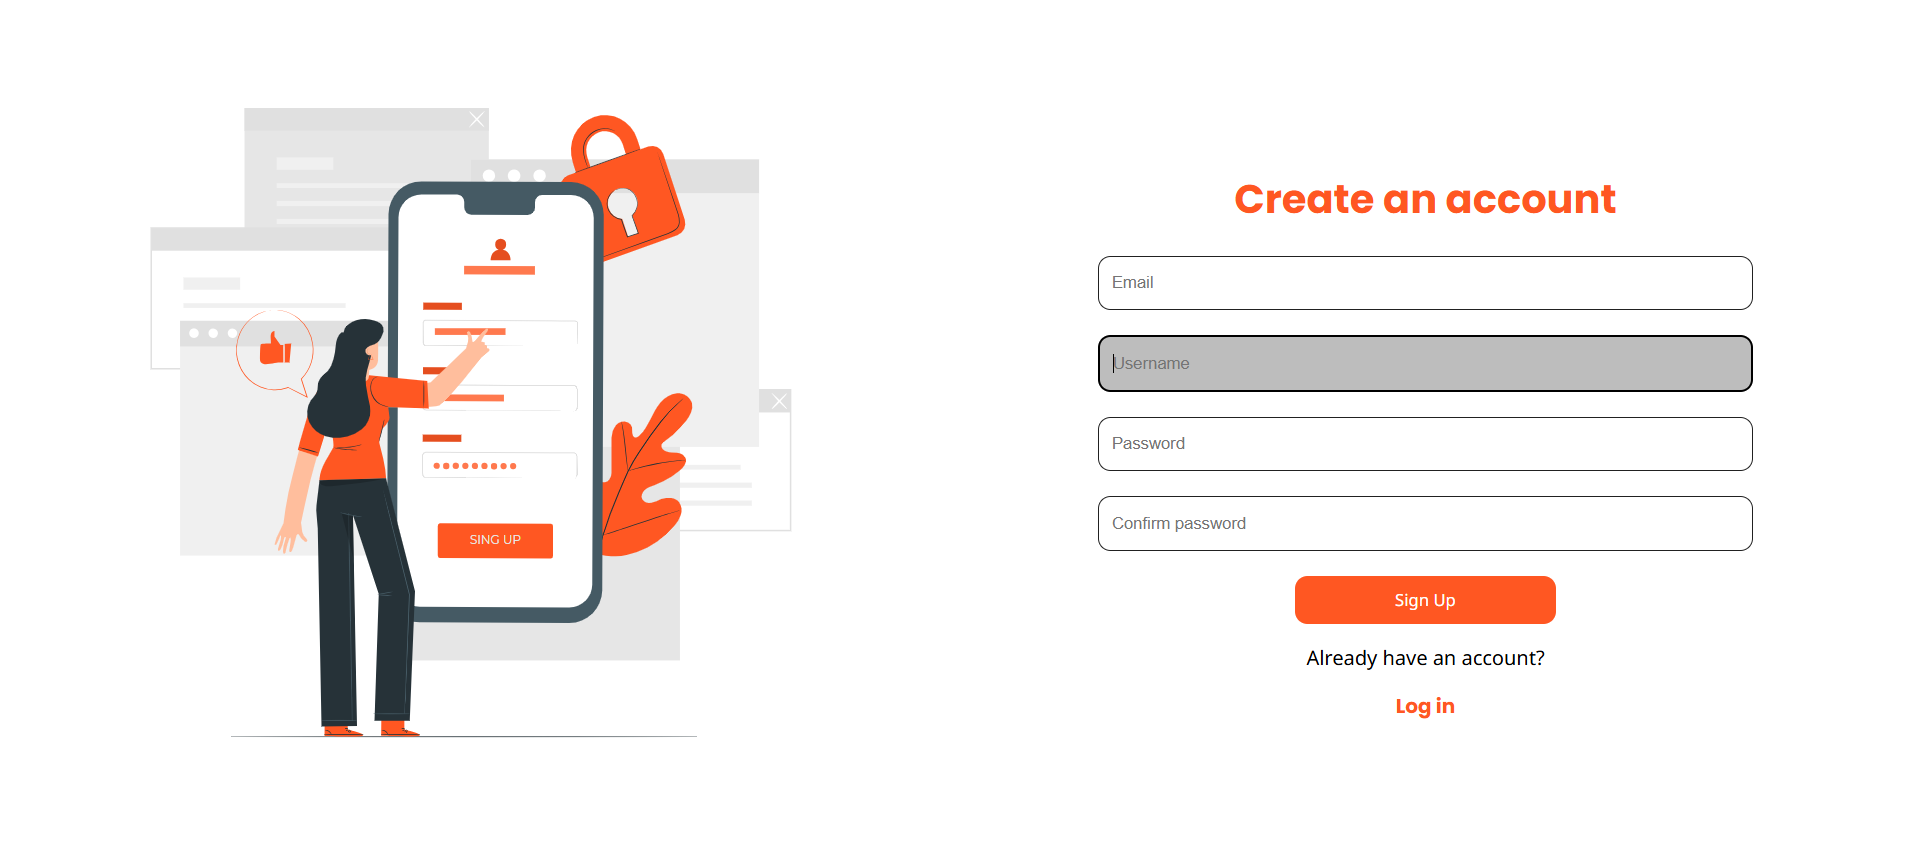
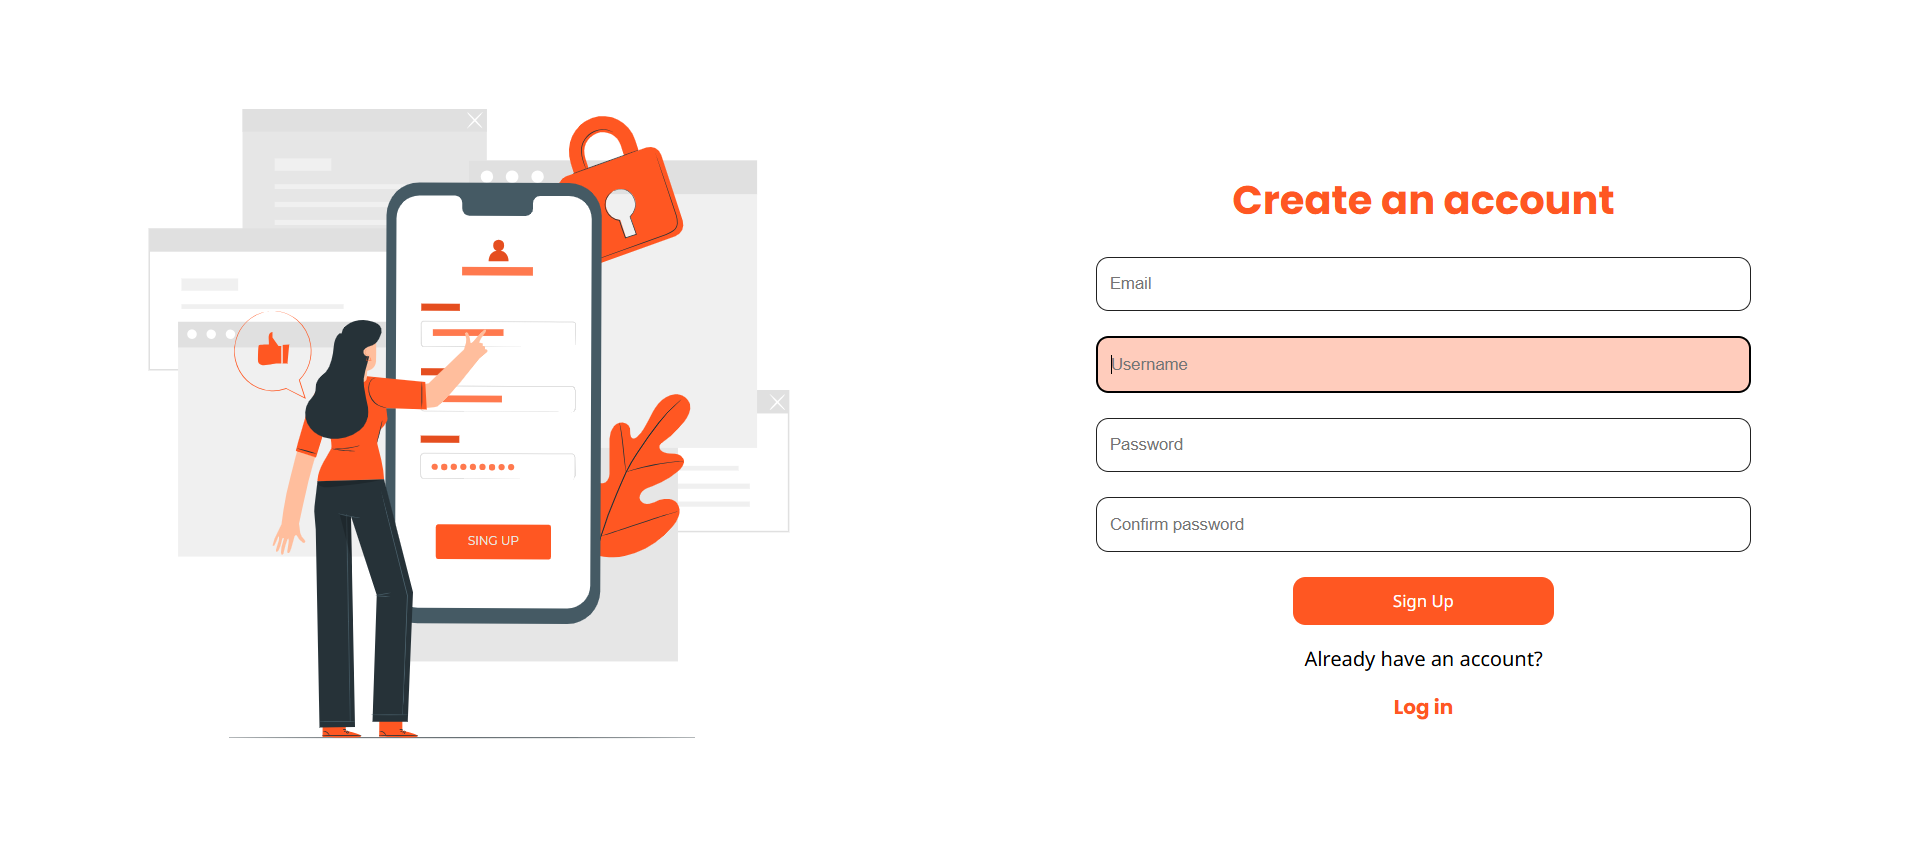
Dashboard design and styling
Designed the basic layout in Figma, used AI to get the basic layout in code and styled it to my own preferences

diff --git a/public/css/style2.css b/public/css/style2.css
@@ -13,79 +13,170 @@
     /*https://www.materialpalette.com*/
 }
 
-body {
-    overflow: hidden;
+* {
     margin: 0;
-    padding: 40px 60px 40px 60px;
-    font-family: "Noto Sans", sans-serif;
-    font-weight: 400;
-    background-color: var(--primary-bg);
+    padding: 0;
+    box-sizing: border-box;
 }
 
-/*Header*/
-header {
+body {
+    font-family: 'Poppins';
+    background-color: #f5f5f5;
+    color: #333;
+}
+
+.container {
+    display: flex;
+    min-height: 100vh;
+}
+
+.sidebar {
+    width: 250px;
+    background-color: #fff;
+    box-shadow: 2px 0 10px rgba(0,0,0,0.1);
+    padding: 20px 0;
+    display: flex;
+    flex-direction: column;
+    justify-content: space-between;
+}
+
+.upper h1 {
+    font-size: 24px;
+    color: #333;
+    margin-bottom: 30px;
+    padding: 0 20px;
+}
+
+.nav-item {
+    display: block;
+    padding: 15px 20px;
+    color: #666;
+    text-decoration: none;
+    border: none;
+    background: none;
     width: 100%;
-    height: 20%;
+    text-align: left;
+    font-size: 16px;
+    cursor: pointer;
+    transition: all 0.2s ease;
+}
+
+.nav-item:hover {
+    background-color: #f0f0f0;
+    color: #333;
+}
+
+.nav-item.active {
+    background-color: var(--light-primary);
+    color: var(--dark-primary);
+    border-right: 3px solid var(--primary);
+}
+
+#logout-btn {
+    background-color: var(--primary);
+}
+
+#logout-btn a {
+    text-decoration: none;
+    color: #FFFFFF;
+}
+
+        /* Main Content */
+.main-content {
+    flex: 1;
+    padding: 20px;
+}
+
+.header {
+    background: linear-gradient(99deg,rgba(255, 87, 34, 1) 42%, rgba(255, 193, 7, 1) 100%);
+    color: white;
+    padding: 30px;
+    border-radius: 12px;
+    margin-bottom: 30px;
+    box-shadow: 0 4px 15px rgba(0,0,0,0.1);
+}
+
+.header h2 {
+    font-size: 28px;
+    margin-bottom: 10px;
+}
+
+.header p {
+    font-size: 16px;
+    opacity: 0.9;
+}
+
+#username {
+    font-weight: bold;
+}
+
+.today-section {
+    background-color: #fff;
+    padding: 20px;
+    border-radius: 12px;
+    margin-bottom: 20px;
+    box-shadow: 0 2px 10px rgba(0,0,0,0.08);
+    display: flex;
+    justify-content: space-between;
+    align-items: center;
+}
+
+.today-info {
+    display: flex;
+    align-items: center;
+    gap: 15px;
+}
+
+.date-text {
+    font-size: 18px;
+    color: #333;
+    font-weight: 500;
+}
+
+.add-entry-btn {
+    background-color: var(--primary);
+    color: white;
+    border: none;
+    padding: 12px 25px;
+    border-radius: 8px;
+    font-size: 16px;
+    cursor: pointer;
+    transition: all 0.3s ease;
+    display: flex;
+    align-items: center;
+    gap: 8px;
+}
+
+.add-entry-btn:hover {
+    cursor: pointer;
+    background-color: var(--dark-primary);
+}
+
+.content-grid {
+    display: grid;
+    grid-template-columns: 1fr 300px;
+    gap: 20px;
+}
+
+.recent-entries {
+    background-color: #fff;
+    border-radius: 12px;
+    padding: 25px;
+    box-shadow: 0 2px 10px rgba(0,0,0,0.08);
+}
+
+.recent-entries h3 {
+    font-size: 20px;
+    color: #333;
     margin-bottom: 20px;
 }
 
-.header-inner {
-    display: flex;
-    justify-content: space-between;
-    align-items: center;
-    gap: 20px;
-    font-size: 25px;
-    padding-right: 10px;
-}
-
-.header-inner a {
-    font-size: 20px;
-}
-
-.header-inner p {
-    margin: 0;
-}
-
-/*Body*/
-.upper-container {
-    height: 180px;
-    background-color: var(--primary);
-    border-radius: 15px;
-    display: flex;
-    align-items: center;
-    justify-content: space-between;
-    padding-left: 30px;
-    padding-right: 40px;
-    box-shadow: rgba(100, 100, 111, 0.2) 0px 7px 29px 0px;
-}
-
-.date-display {
-    display: flex;
-    flex-direction: column;
-    gap: 5px;
-}
-
-.date-display p {
-    margin: 0;
-    color: var(--primary-bg);
-    font-size: large;
-}
-
-#date {
-    font-weight: bold;
-    font-size:xx-large;
-}
-
-.new-button {
-    background-color: var(--accent);
-    padding: 40px;
-    border-radius: 50%;
-    height: 30px;
-    box-shadow: rgba(0, 0, 0, 0.35) 0px 5px 15px;
-}
-
-.new-button a {
-    text-decoration: none;
-    color: var(--primary-bg);
-    font-size: 40px;
+.entry-item {
+    padding: 15px;
+    border-left: 4px solid #e0e0e0;
+    margin-bottom: 15px;
+    background-color: #fafafa;
+    border-radius: 8px;
+    cursor: pointer;
+    transition: all 0.2s ease;
 }

diff --git a/public/css/style.css b/public/css/style.css
@@ -96,7 +96,7 @@ input {
 }
 
 input:focus {
-    background-color: var(--divider-text);
+    background-color: var(--light-primary);
     border: 2px solid;
 }
 
